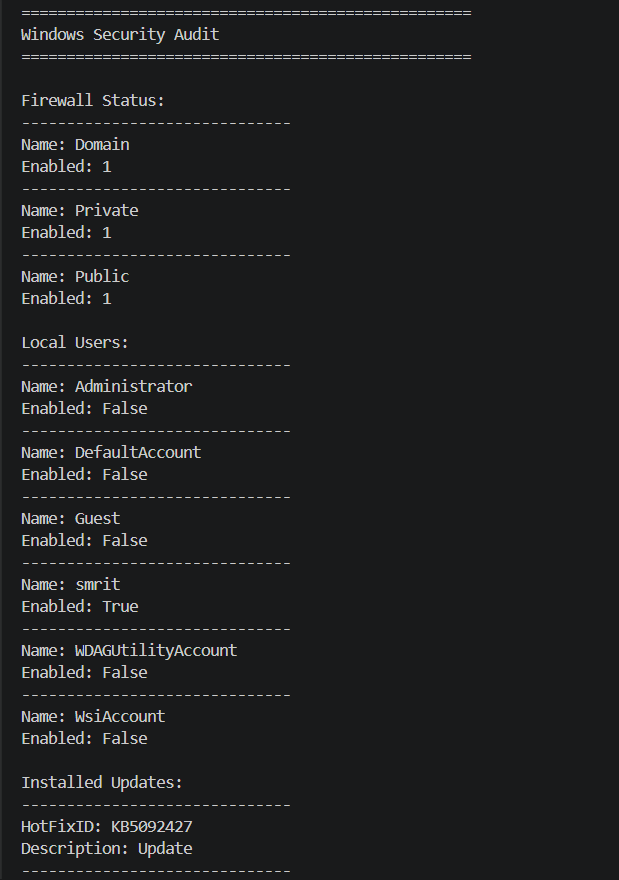
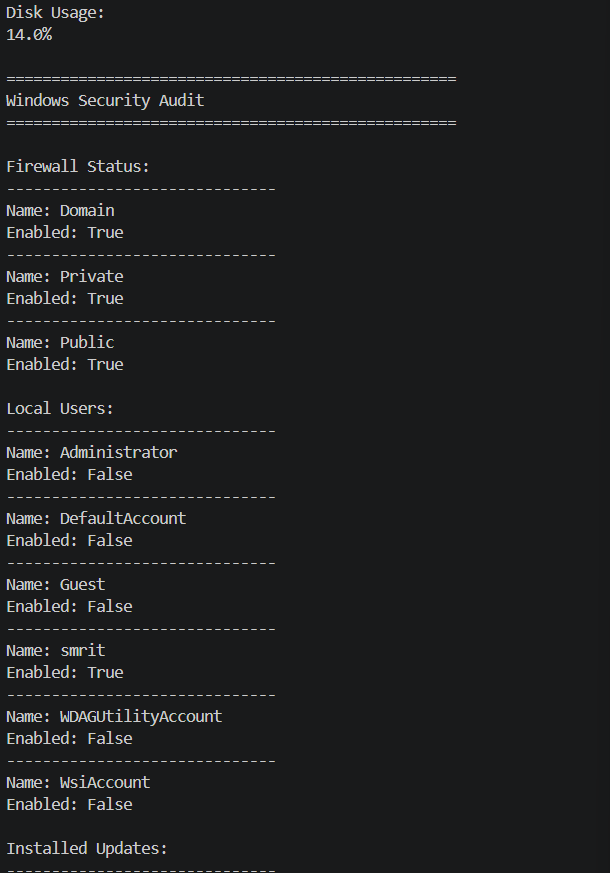
Enhance process analysis and document Sysinternals workflow

Changed region(s): [[0.0, 0.0, 0.7475, 1.0], [0.3426, 0.1237, 0.4361, 0.1546]]

diff --git a/main.py b/main.py
@@ -62,21 +62,12 @@ def start_cyberguard():
     for process in processes[:15]:
 
         print(
-
-            f"PID: {process['pid']}"
-
-            f" | "
-
-            f"{process['name']}"
-
-            f" | "
-
-            f"CPU: {process['cpu']}%"
-
-            f" | "
-
-            f"RAM: {process['memory']:.2f}%"
-
+            f"PID: {process['pid']}\n"
+            f"Name: {process['name']}\n"
+            f"CPU: {process['cpu']}%\n"
+            f"RAM: {process['memory']:.2f}%\n"
+            f"Path: {process['path']}\n"
+            + "-" * 50
         )
 
 if __name__ == "__main__":

diff --git a/analyzers/process_analyzer.py b/analyzers/process_analyzer.py
@@ -20,17 +20,12 @@ def collect_processes():
             info = process.info
 
             processes.append({
-
                 "pid": info["pid"],
-
-                "name": info["name"],
-
+                "name": info["name"] or "Unknown",
                 "user": info["username"],
-
                 "cpu": round(info["cpu_percent"], 2),
-
-                "memory": round(info["memory_percent"], 2)
-
+                "memory": round(info["memory_percent"], 2),
+                "path": process.exe() if process.is_running() else "Unavailable"
             })
 
         except (